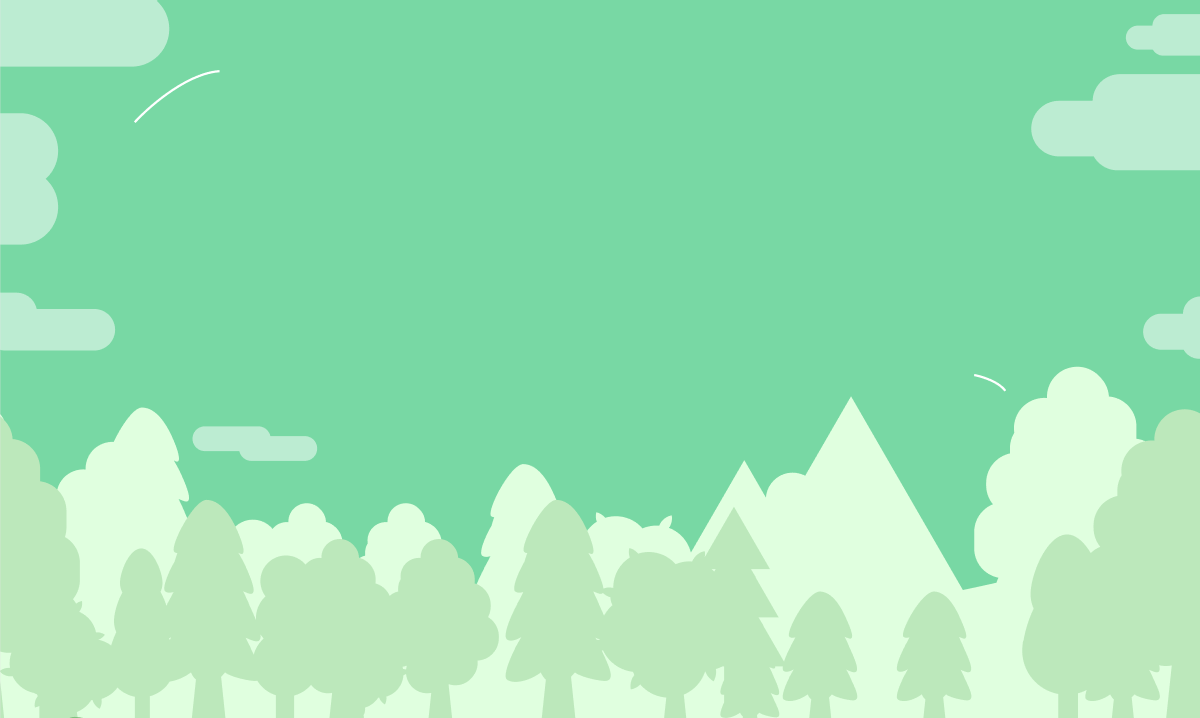
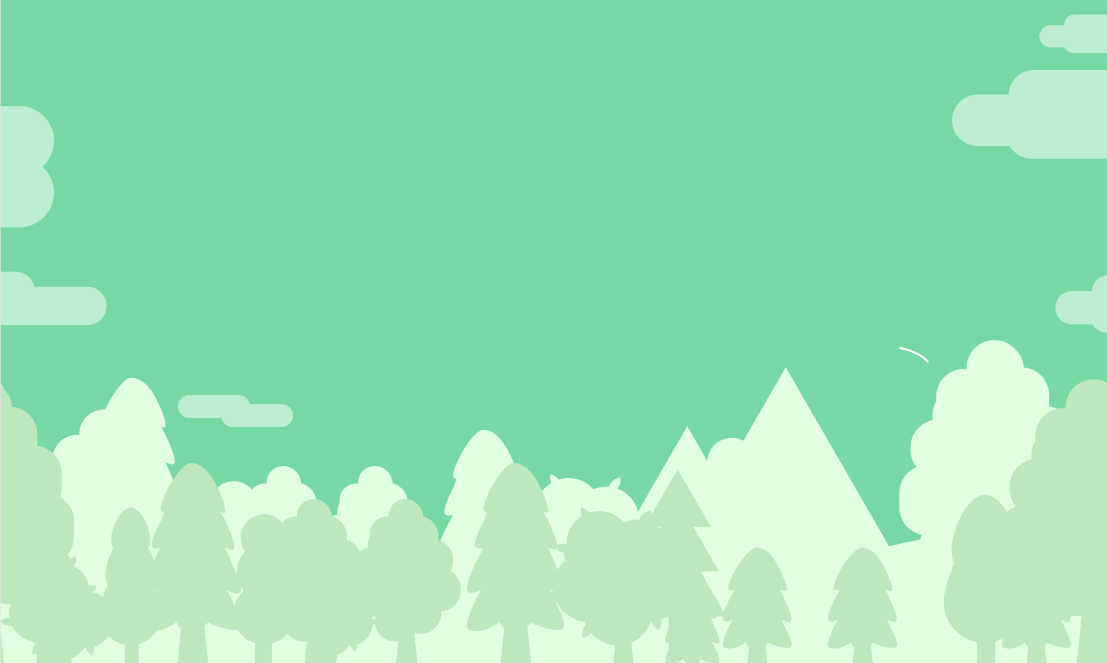
feat: added top navbar

diff --git a/style.css b/style.css
@@ -1,7 +1,37 @@
-body {
-    font-family: Arial, sans-serif;
-    margin: 0;
+* {
+    border: 0;
     padding: 0;
+    margin: 0;
+}
+
+/*NAV BAR*/
+.topnav {
+    background-color: #333;
+    overflow: hidden;
+    position: fixed;
+    margin: 0px;
+    top: 0;
+    width: vw;
+}
+.topnav a {
+    float: left;
+    color: #f2f2f2;
+    text-align: center;
+    padding: 14px 16px;
+    text-decoration: none;
+    font-size: 17px;
+}
+.topnav a:hover {
+    background-color: #ddd;
+    color: black;
+}
+.topnav a.active {
+    background-color: #04AA6D;
+    color: white;
+}
+  
+/*HOME*/
+#home {
     background-image: url('images/Cover.png');
     background-repeat: no-repeat;
     background-attachment: fixed;
@@ -9,25 +39,30 @@ body {
     display: flex;
     justify-content: center;
     align-items: center;
-    height: 100vh;
+    width: vw;
+    height: fit-content;
 }
-
 /*Photo and Name*/
 .header {
     display: flex;
     align-items: center;
     margin-top: 20px;
-    width: 100%;
+    margin-bottom: 30px;
+    width: 50%;
     justify-content: center;
     position: absolute;
     top: 0;
+    border: solid 5px;
 }
-
 .profile-photo {
     width: 100px;
     height: 100px;
+    border: solid 5px rgba(10, 10, 68, 0.516);
     border-radius: 50%;
-    margin-right: 20px;
+    margin-right: 300px;
+}
+.my-name {
+    font-family: sans-serif;
 }
 
 /*The Tree*/
@@ -35,20 +70,14 @@ body {
     background-image: url('images/Main-Tree.png');
     background-repeat: no-repeat;
     background-size: contain;
-    background-position: bottom center;
+    background-position: center;
     width: 100%;
     height: 100%;
     display: flex;
     justify-content: center;
     align-items: center;
-}
-
-.tree {
-    display: flex;
-    justify-content: center;
-    align-items: center;
-    width: 100%;
-    height: 100%;
+    margin-top: 200px;
+    border: solid 5px;
 }
 
 .nest {

diff --git a/index.html b/index.html
@@ -8,15 +8,24 @@
     <link rel="icon" href="images/favicon.ico" type="image/x-icon" />
   </head>
   <body>
-    <!--Photo and Name-->
-    <div class="header">
-      <img src="images/Me.jpg" alt="My Photo" class="profile-photo">
-      <h1>Dac Tri Ho</h1>
+    <!--Top Nav Bar-->
+    <div class="topnav">
+      <a class="active" href="#home">Home</a>
+      <a href="#about">About Me</a>
+      <a href="#experiences">Experiences</a>
+      <a href="#contacts">Contacts</a>
     </div>
     
-    <!--The Tree-->
-    <div class="tree-container">
-      <div class="tree">
+    <!--Home Section-->
+    <div id="home">
+      <!--Photo and Name-->
+      <div class="header">
+        <img src="images/Me.jpg" alt="My Photo" class="profile-photo">
+        <h1 class="my-name">Dac Tri Ho</h1>
+      </div>
+      
+      <!--The Tree-->
+      <div class="tree-container">
         <div class="nest">
           <div class="nest nest1" onclick="showSection('about')">About Me</div>
           <div class="nest nest2" onclick="showSection('experiences')">Experiences</div>
